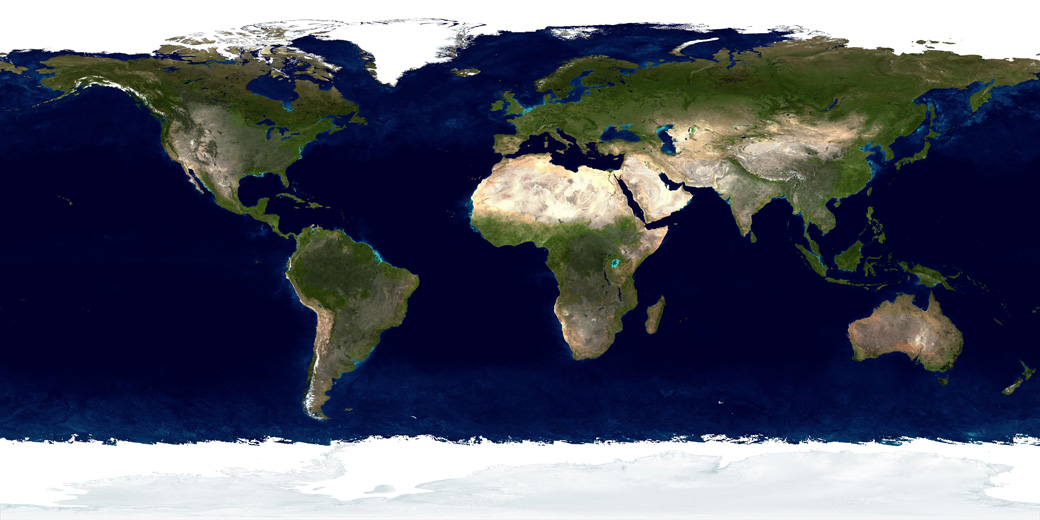
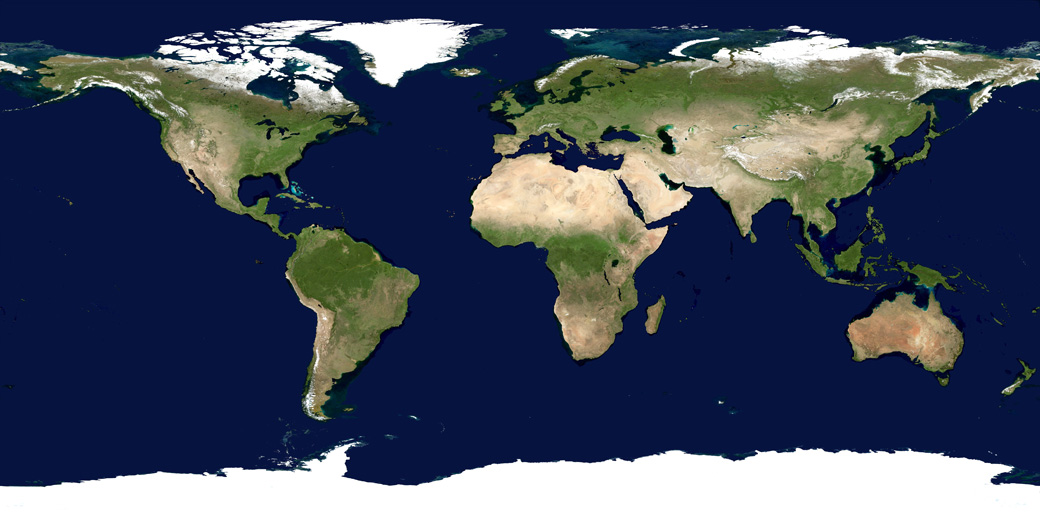
add centering of the map by sun position in day/night spike

diff --git a/spikes/terminator.html b/spikes/terminator.html
@@ -14,6 +14,7 @@ document.observe('dom:loaded', function() {
 	document.dec = -23.5;
 	document.now = Time.now();
 	document.tau = time_to_hour_angle(document.now);
+	document.center = 'map';
 
 	wire_adjuster($('link1'), $('declination'),
 		function(value) { document.dec = value; }
@@ -25,6 +26,11 @@ document.observe('dom:loaded', function() {
 
 	redraw();
 });
+
+function reset_center(v) {
+	document.center = v;
+	redraw();
+}
 
 function time_to_hour_angle(t) {
 
@@ -62,15 +68,13 @@ function wire_adjuster(source, target, on_change) {
 
 
 function redraw() {
-
-//	$.trace('DEC =', document.dec, 'TAU =', document.tau);
-
 	var dec = document.dec;
 	var tau = document.tau;
+	var center = document.center;
 	var img = new Image();
 	
 	var on_ready = function() {
-		draw_daynight(img, dec, tau);
+		draw_daynight(img, center, dec, tau);
 		draw_controls(dec, tau);
 	}
 
@@ -88,40 +92,67 @@ function draw_controls(dec, tau) {
 	$('link2').next('.reading').innerHTML = hour_angle;
 }
 
-function draw_daynight(map, dec, tau) {
+function draw_daynight(map, center, dec, tau) {
 	var canvas = $('canvas');
 	var bounds = { left: 0, top: 0, right: canvas.width, bottom: canvas.height }
 	var ctx = canvas.getContext('2d');
 	
-	draw_map(ctx, map);
-	draw_sun(ctx, dec, tau);
-	draw_terminator(ctx, dec, tau);
+	draw_map(ctx, map, center, tau);
+	draw_sun(ctx, center, dec, tau);
+	draw_terminator(ctx, center, dec, tau);
+	draw_gridlines(ctx);
 }
 
-function draw_map(ctx, map) {
+function draw_map(ctx, map, center, tau) {
 	var canvas = ctx.canvas;
-	ctx.drawImage(map, 0, 0);
-	
+
+	if (center != 'sun') {
+		ctx.drawImage(map, 0, 0);
+	}
+	else {
+		var xextent = canvas.width;
+		var xorigin = (xextent / 2);
+		var xscale = (xextent / 360);
+		
+		var ximage = tau * xscale;
+		
+		ctx.drawImage(map, ximage, 0);
+		if (ximage < 0) {
+			ctx.drawImage(map, ximage + xextent, 0);
+		}
+		else if (ximage > 0) {
+			ctx.drawImage(map, ximage - xextent, 0);
+		}
+	}
+}
+
+function draw_gridlines(ctx) {
+	var canvas = ctx.canvas;
+
 	// equator
-	ctx.lineWidth = 2;
+	ctx.lineWidth = 1;
 	ctx.strokeStyle = 'rgba(255, 255, 255, 0.33)';
 
 	ctx.beginPath();
 	ctx.moveTo(0, (canvas.height / 2) - 1);
 	ctx.lineTo(canvas.width, (canvas.height / 2) - 1);
-	ctx.stroke();	
+	ctx.stroke();
 }
 
-function draw_sun(ctx, dec, tau) {
+function draw_sun(ctx, center, dec, tau) {
 	var canvas = ctx.canvas;
-	var radius = 4 * (canvas.height / 180);
+	var radius = 4 * (canvas.height / 240);
 
 	ctx.lineWidth = 2;
-	ctx.fillStyle = 'rgba(255, 255, 100, 0.6)';
+	ctx.fillStyle = 'rgba(255, 255, 100, 0.8)';
 	ctx.strokeStyle = 'rgba(255, 255, 255, 0.6)';
 
-	var x = (tau * (canvas.width / 360)) + 1;
+	var x = 0;
 	var y = (dec * (canvas.height / 180)) + 1;
+	
+	if (center != 'sun') {
+		x = (tau * (canvas.width / 360)) + 1;
+	}
 
 	ctx.beginPath();
 	ctx.arc(
@@ -136,7 +167,13 @@ function draw_sun(ctx, dec, tau) {
 	ctx.fill();
 }
 
-function draw_terminator(ctx, dec, tau) {
+function draw_terminator(ctx, center, dec, tau) {
+	draw_terminator_path(ctx, center, dec, tau, 1, 'rgba(0, 0, 60, 0.25)');
+	draw_terminator_path(ctx, center, dec, tau, 0, 'rgba(0, 0, 0, 0.25)');
+	draw_terminator_path(ctx, center, dec, tau, -1, 'rgba(0, 0, 0, 0.25)');
+}
+
+function draw_terminator_path(ctx, center, dec, tau, path_offset, fillStyle) {
 	var canvas = ctx.canvas;
 	
 	var xextent = canvas.width;
@@ -146,14 +183,20 @@ function draw_terminator(ctx, dec, tau) {
 	var xscale = (xextent / 360);
 	var yscale = (yextent / 180);
 	
-	ctx.fillStyle = 'rgba(0, 0, 0, 0.50)';
+	ctx.fillStyle = fillStyle;
 	ctx.beginPath();
-	for (var i = 0; i < 361; i++) {
+	path_offset = path_offset * 0.25;
+
+	var offset = center != 'sun'
+		? 180 : 180 - tau;
+
+	for (var i = 0; i <= 360; i++) {
 		
 		var x = (i - 180) * xscale + xorigin;
-		var lng = i + tau + 180;
+		var lng = i + tau + offset;
 		var tl = -Math.cos(lng * Math.K) / Math.tan(dec * Math.K);
-		var al = Math.atan(tl) / Math.K;
+		var al = Math.atan(tl + path_offset) / Math.K + (path_offset * 16);
+		//var al = Math.atan(tl) / Math.K;
 		var y = yorigin - (yscale * al);
 
 		if (i == 0) ctx.moveTo(x, y);
@@ -167,11 +210,6 @@ function draw_terminator(ctx, dec, tau) {
 	ctx.lineTo(0, ypole);
 	
 	ctx.fill();
-//	ctx.save();
-//	ctx.clip();
-//	ctx.globalAlpha = 0.75;
-//	ctx.drawImage(map, 0, 0);
-//	ctx.restore();		
 }
 
 function draw_point(ctx, x, y) {
@@ -206,6 +244,28 @@ body {
 	font-family: sans-serif;
 	font-size: 0.9em;
 }
+
+.hbox {
+	display: -webkit-box;
+	-webkit-box-orient: horizontal;
+	-webkit-box-align: stretch;
+ 
+	display: -moz-box;
+	-moz-box-orient: horizontal;
+	-moz-box-align: stretch;
+ 
+	display: box;
+	box-orient: horizontal;
+	box-align: stretch;
+}
+ 
+.hbox > * {
+	-webkit-box-flex: 0;
+	-moz-box-flex: 0;
+	box-flex: 0;
+	display: block;
+}
+ 
 h4 {
 	font-size: 0.9;
 	font-style: italic;
@@ -251,17 +311,29 @@ ul.selection li.first {
 
 ul.selection li.emph {
 	color: #55C;
-}	
+}
+
+
 	</style>
 </head>
 <body>
 
 <canvas id="canvas" width="1040" height="520"></canvas>
 
-<h4>compute the day/night terminator on a world map</h4>
-<div id="adjuster">
-	adjust the <span id="link1">declination</span> <span class="reading"></span>,
-	and <span id="link2">hour angle</span> <span class="reading"></span>
+<div class="hbox" style="width:1040px">
+	<div>
+		<h4>compute the day/night terminator on a world map</h4>
+		<div id="adjuster">
+			adjust the <span id="link1">declination</span> <span class="reading"></span>,
+			and <span id="link2">hour angle</span> <span class="reading"></span>
+		</div>
+	</div>
+	<div style="width:50px"></div>
+	<div>
+		<input type="radio" name="center" id="center-map" value="map" checked="1" onchange="reset_center($F(this))" /> <label for="center-map">center the map</label>
+		&nbsp;<i>or</i>&nbsp;
+		<input type="radio" name="center" id="center-sun" value="sun" onchange="reset_center($F(this))" /> <label for="center-sun">center the sun</label>
+	</div>
 </div>
 
 <ul id="declination" class="selection" style="min-width:80px;display:none;">
